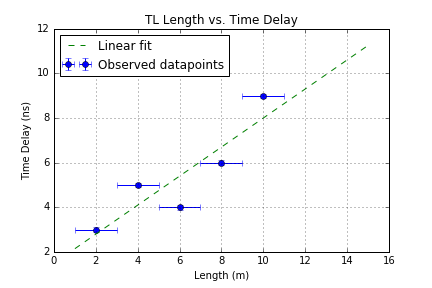
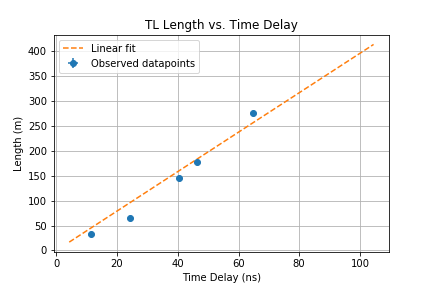
Improve plot

Changed region(s): [[0.0301, 0.0312, 0.9329, 1.0]]

diff --git a/lab2/wave_speed.py b/lab2/wave_speed.py
@@ -1,6 +1,7 @@
 import matplotlib.pyplot as plt
 import numpy as np
 import pandas as pd
+import statsmodels.api as sm
 
 # Read data points
 values = pd.read_csv('data/length_td.csv', header=None,
@@ -8,12 +9,17 @@ values = pd.read_csv('data/length_td.csv', header=None,
                             'Time Delay Uncertainties'],
                      nrows=5)
 
-max_length = values['Length'].max()
-min_length = values['Length'].min()
+max_time = values['Time Delay'].max()
+min_time = values['Time Delay'].min()
 
 
 coefficients, residuals = np.polyfit(values['Length'], values['Time Delay'],
                                      deg=1, cov=True)
+model = sm.OLS(values['Length'], values['Time Delay'])
+results = model.fit()
+model_slope = results.params[0]
+model_slope_uncertainty = results.bse[0]
+model_slope
 
 slope = coefficients[0]
 slope_uncertainty = residuals[0][0]
@@ -21,9 +27,10 @@ slope_uncertainty = residuals[0][0]
 intercept = coefficients[1]
 intercept_uncertainty = residuals[1][1]
 
-print ("Slope: {0}, Uncertainty: {1}".format(slope, slope_uncertainty))
-print ("intercept: {0}, Uncertainty: {1}".format(intercept,
-       intercept_uncertainty))
+
+print ("Slope: {0}, Uncertainty: {1}".format(model_slope*10**9,
+                                             model_slope_uncertainty*10**9))
+
 
 fig, ax = plt.subplots()
 
@@ -33,14 +40,15 @@ ax.errorbar(values['Length'], values['Time Delay'],
             xerr=values['Length Uncertainties'])
 
 
-lengths = np.linspace(min_length - min_length*0.5, max_length + max_length*0.5,
+lengths = np.linspace(min_time - min_time*0.5, max_time + max_time*0.5,
                       num=50)
-fit = slope*lengths + intercept
+fit = model_slope*lengths
 
-ax.plot(lengths, fit, label="Linear fit", linestyle="--")
 
-ax.set(title="TL Length vs. Time Delay", xlabel="Length (m)",
-       ylabel="Time Delay (ns)")
+ax.plot(fit, lengths, label="Linear fit", linestyle="--")
+
+ax.set(title="TL Length vs. Time Delay", ylabel="Length (m)",
+       xlabel="Time Delay (ns)")
 ax.legend(loc='upper left')
 plt.grid(True)
 fig.savefig('plots/wave_speed.png')
